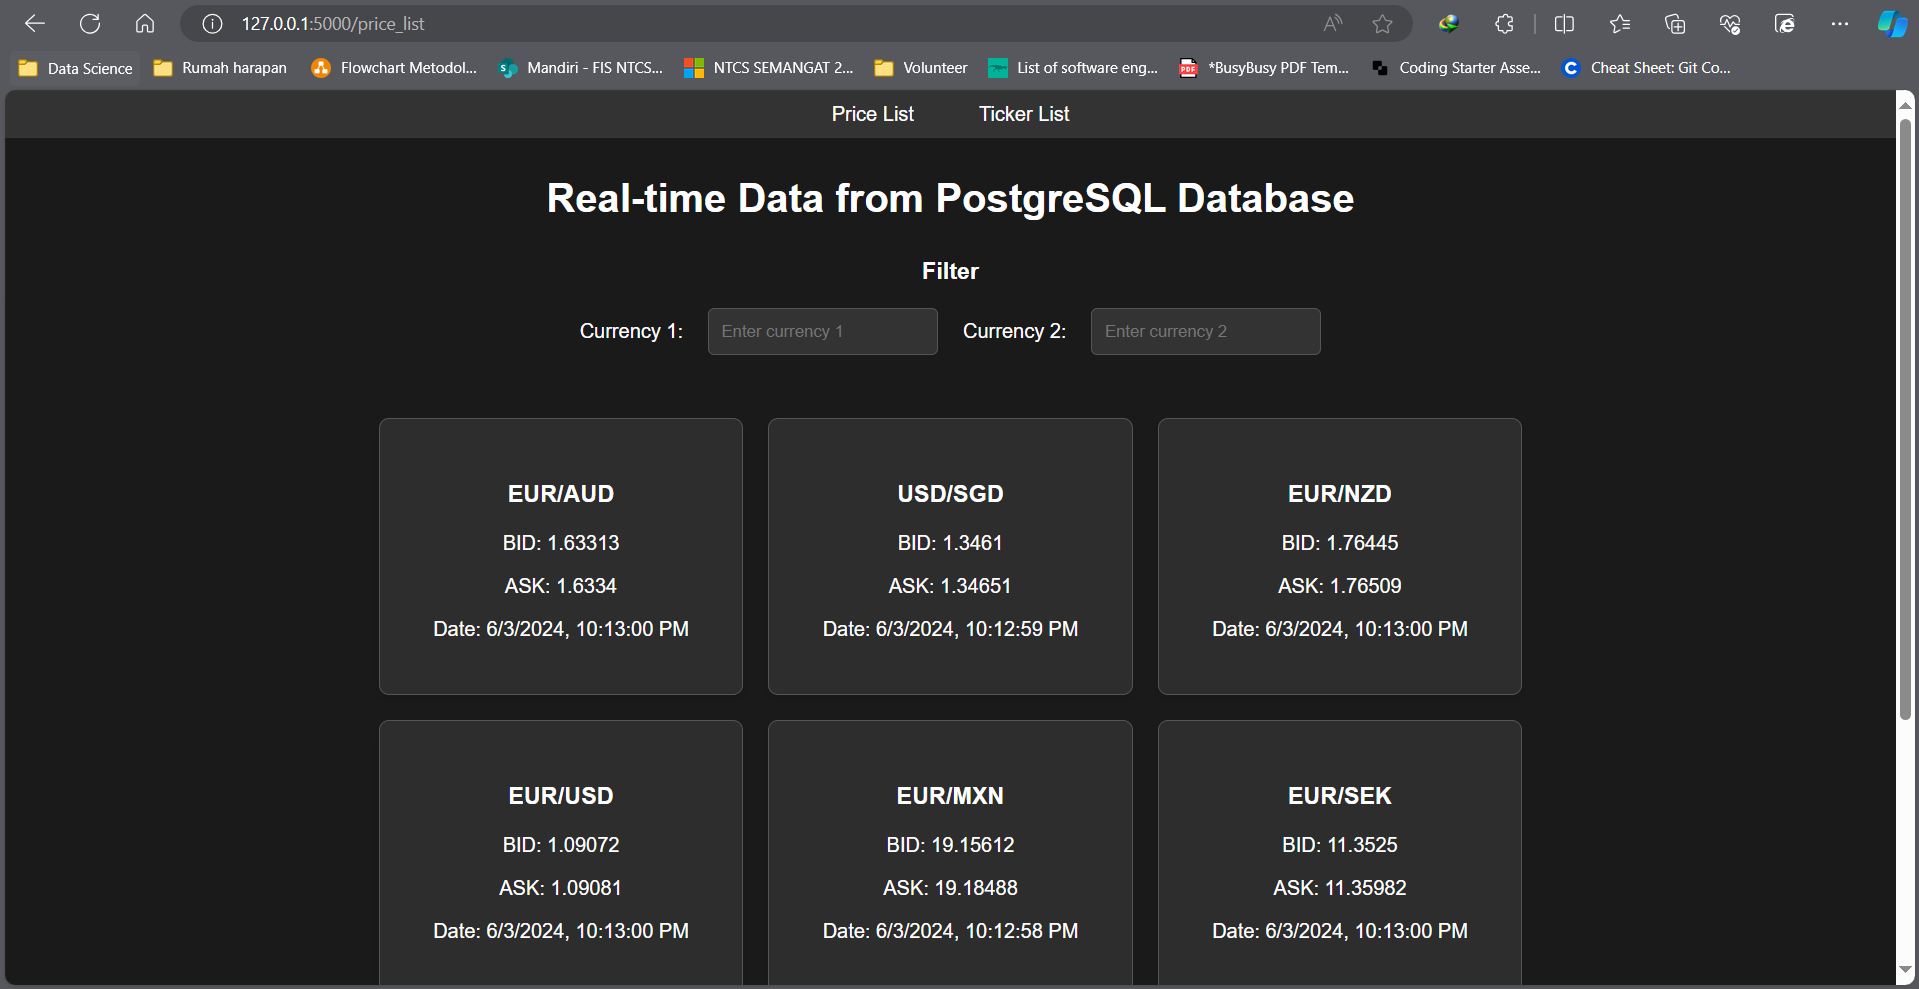
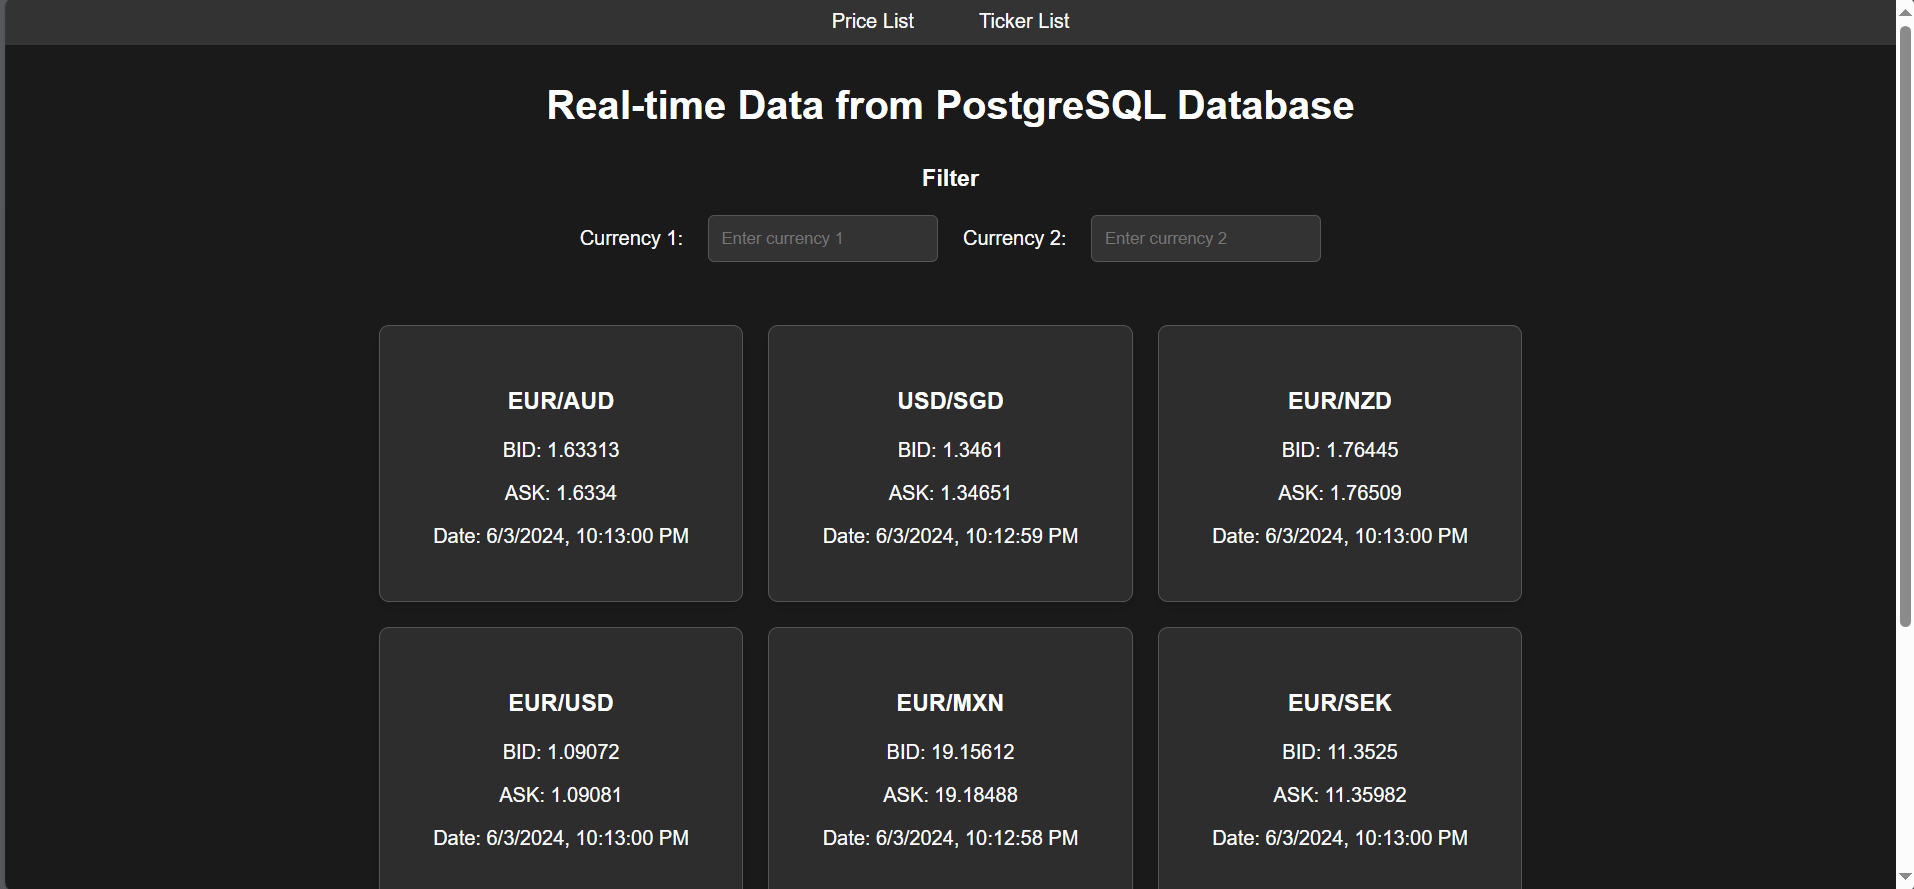
Update the images for README

diff --git a/README.md b/README.md
@@ -71,14 +71,14 @@ Detailed instructions and examples for using the Websocket-MarketData Project. A
 3. The data will be saved in the table. Websockets will read the table and request data based on the entries.
 4. You can update or delete entries in the table as needed.
 
-![Ticker List Page Screenshot](images/Ticker_List.png)
+![Ticker List Page Screenshot](images/Ticker_List.PNG)
 
 #### Price List
 1. Open your browser and navigate to http://localhost:5000/price_list.
 2. The dashboard will display FX values (Bid, Ask, Date) based on the Ticker List table.
 3. You can filter the values by selecting Currency 1 or Currency 2.
 
-![Price List Page Screenshot](images/Price_List.png)
+![Price List Page Screenshot](images/Price_List.PNG)
 
 ## Features
 
